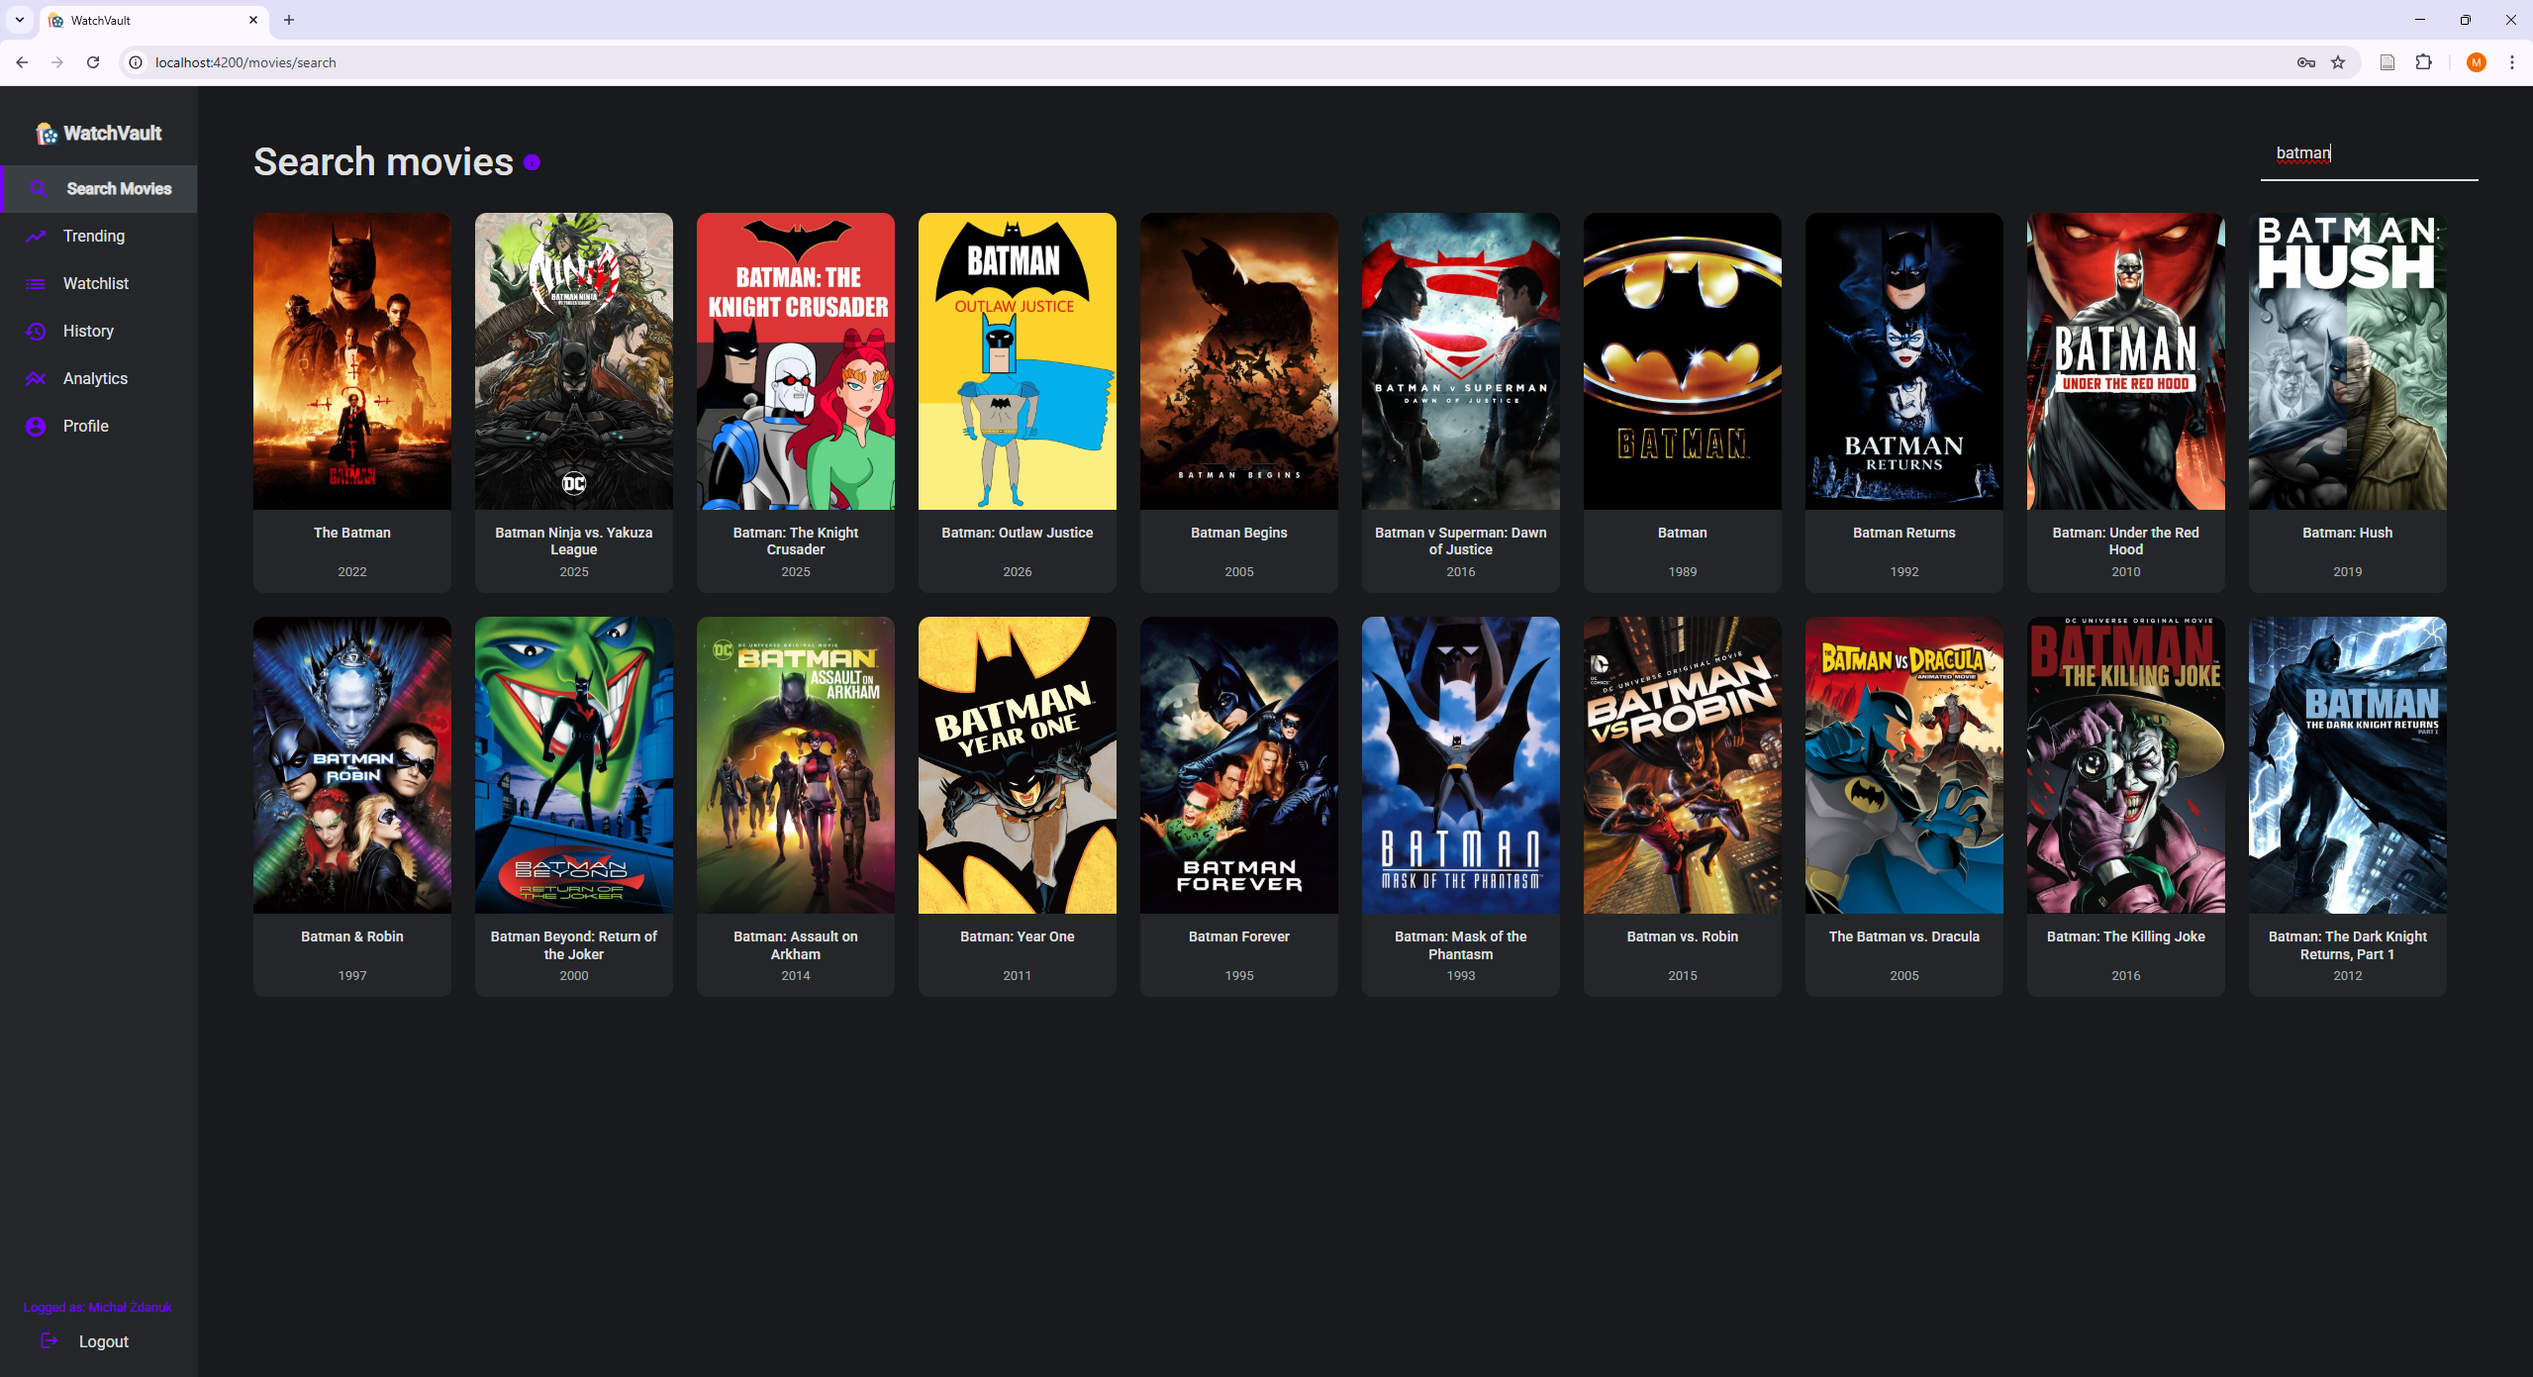
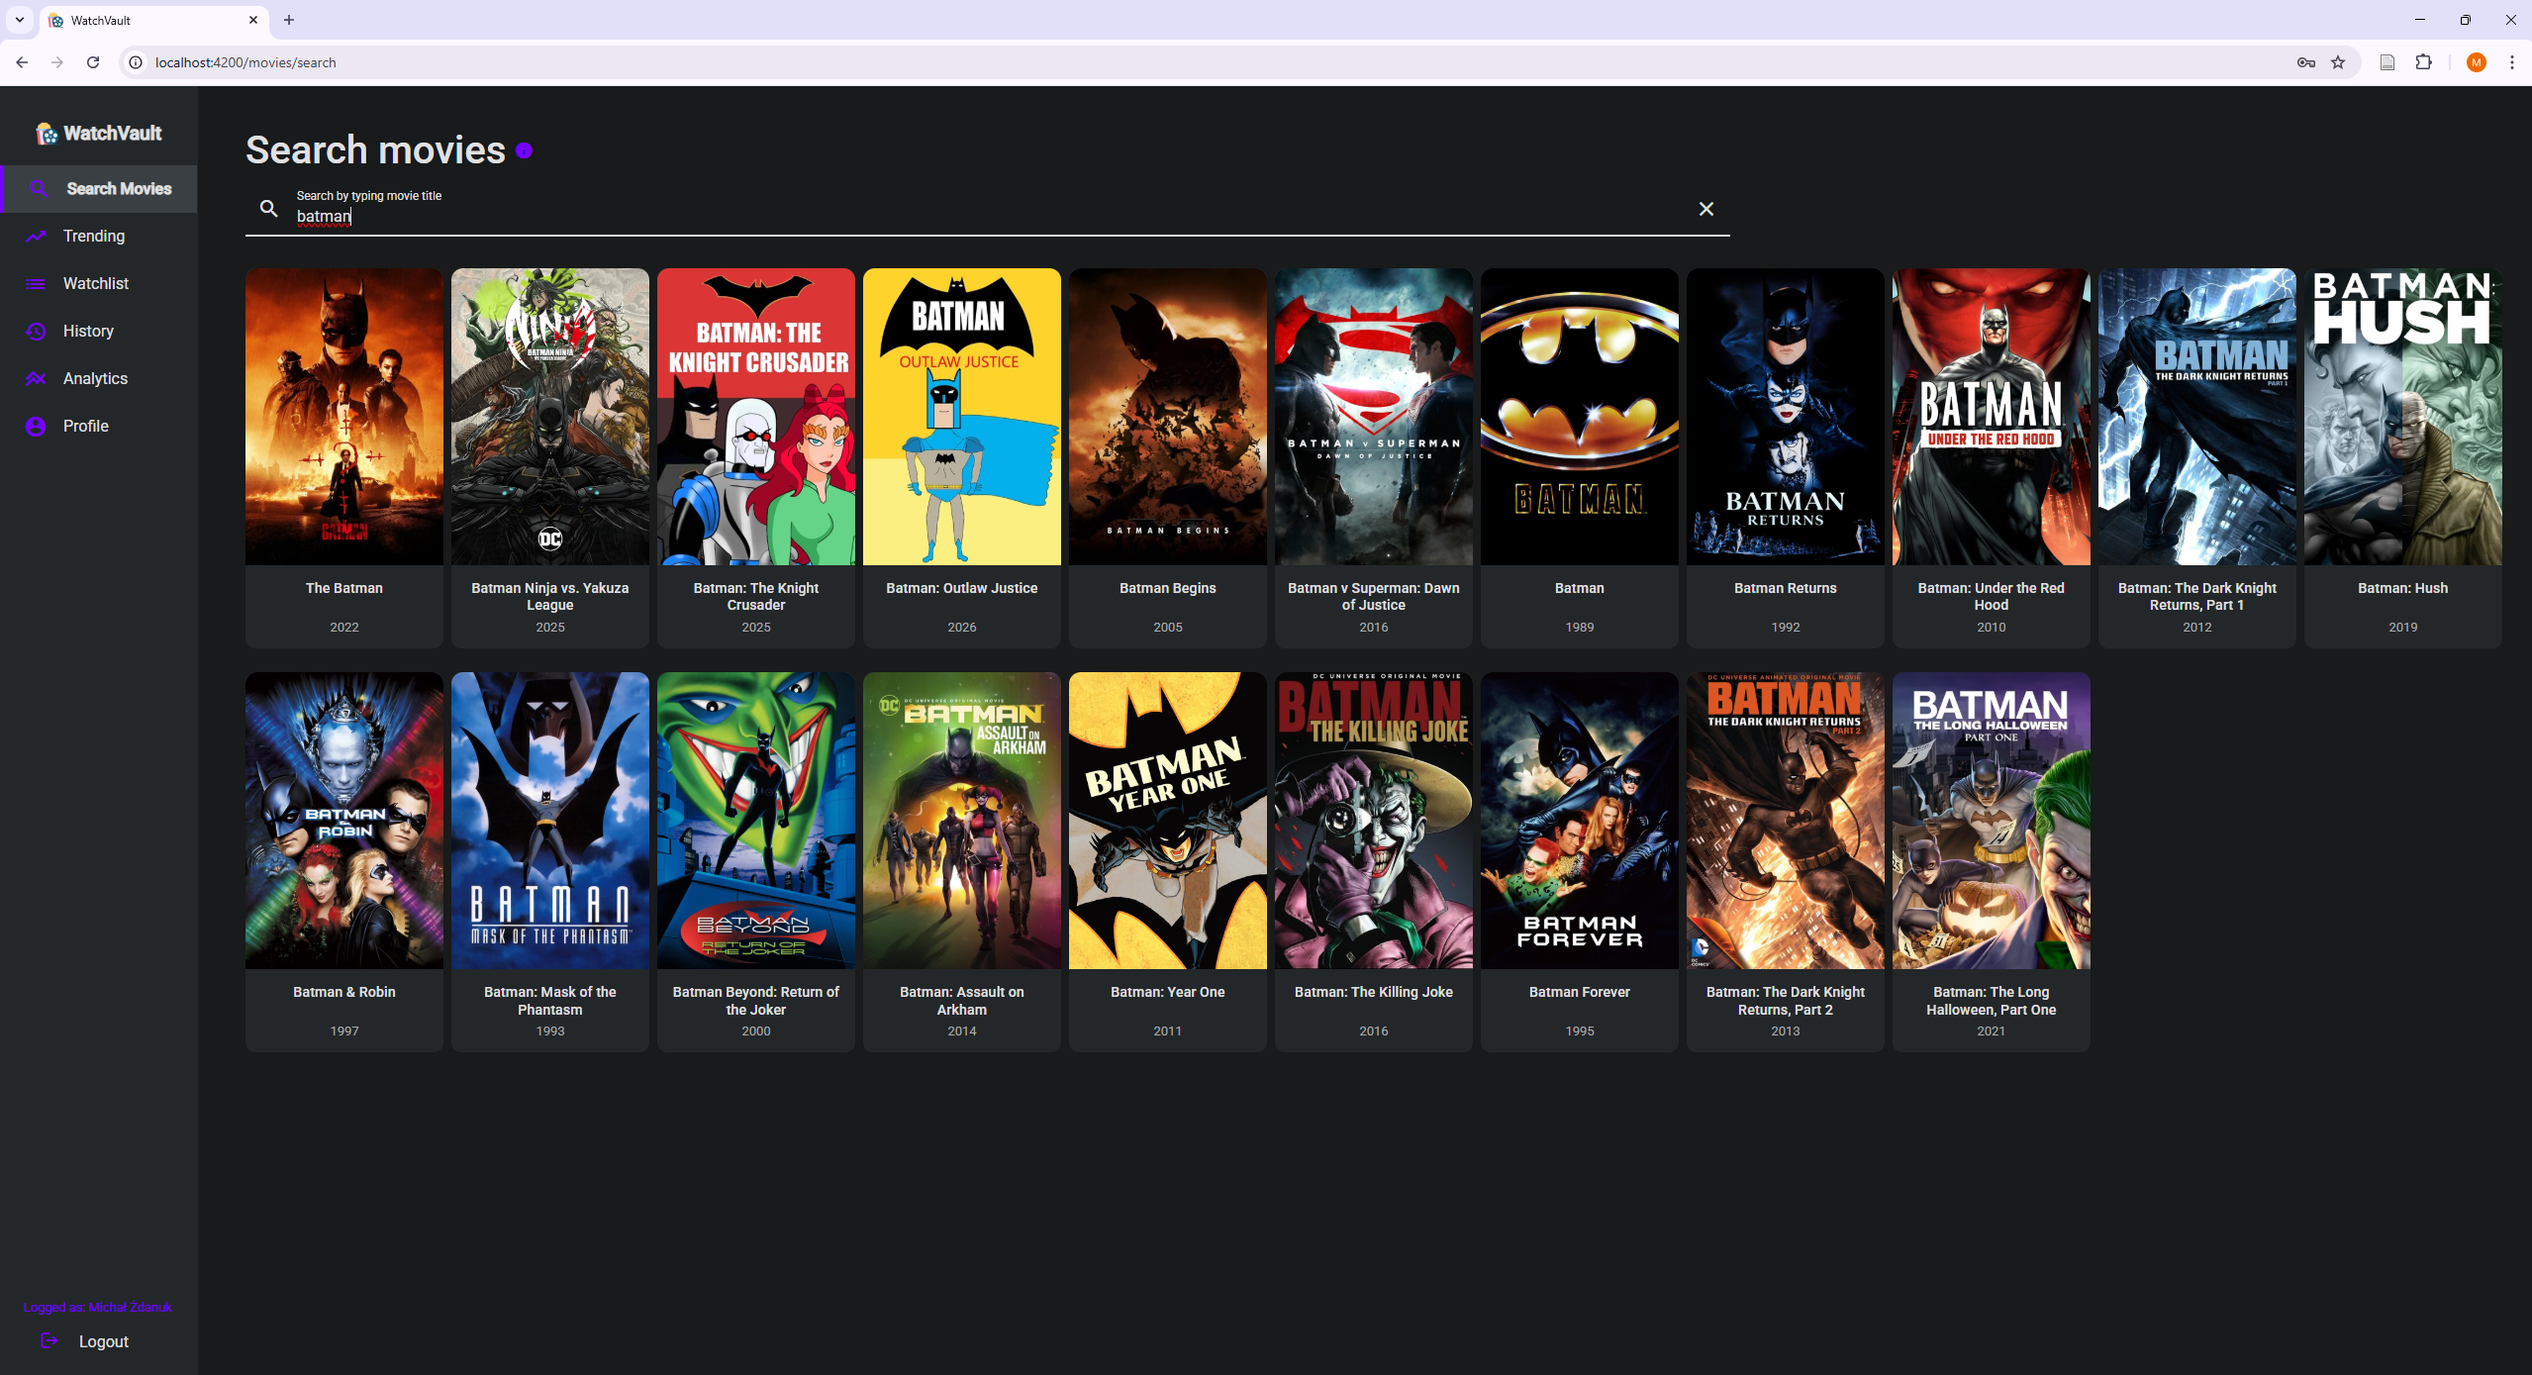
Redesign search movies page.

diff --git a/watchvault-fe/src/app/features/movies/pages/movie-search.component/movie-search.component.ts b/watchvault-fe/src/app/features/movies/pages/movie-search.component/movie-search.component.ts
@@ -1,25 +1,41 @@
 import { CommonModule } from '@angular/common';
 import { Component, ElementRef, ViewChild } from '@angular/core';
 import { MovieCard } from '../../movie-card/movie-card';
+import { PopularMovieCard } from '../../popular-movie-card/popular-movie-card';
 import { MovieService } from '../../../../core/services/movie.service';
 import { Movie } from '../../../../shared/models/movie';
 import { FlexModule } from '@angular/flex-layout';
 import { MatInputModule } from '@angular/material/input';
 import { MatFormFieldModule } from '@angular/material/form-field';
-import { fromEvent } from 'rxjs';
+import { InfoIcon } from '../../../../shared/components/info-icon/info-icon';
+import { TrendingMovie } from '../../../../shared/models/trending-movie';
+import { TrendingInterval } from '../../../../shared/models/trending-interval';
+import { LoadingSpinner } from '../../../../shared/components/loading-spinner/loading-spinner';
+import { fromEvent, of, Subscription } from 'rxjs';
 import {
   debounceTime,
   distinctUntilChanged,
   filter,
-  map,
   switchMap,
+  tap,
   catchError,
+  map,
 } from 'rxjs/operators';
-import { InfoIcon } from '../../../../shared/components/info-icon/info-icon';
+import { MatIconModule } from '@angular/material/icon';
 
 @Component({
   selector: 'app-movie-search.component',
-  imports: [CommonModule, FlexModule, MovieCard, InfoIcon, MatInputModule, MatFormFieldModule],
+  imports: [
+    CommonModule,
+    FlexModule,
+    MovieCard,
+    PopularMovieCard,
+    InfoIcon,
+    LoadingSpinner,
+    MatInputModule,
+    MatFormFieldModule,
+    MatIconModule,
+  ],
   templateUrl: './movie-search.component.html',
   styleUrl: './movie-search.component.css',
 })
@@ -27,31 +43,91 @@ export class MovieSearchComponent {
   @ViewChild('searchInput', { static: true }) searchInput!: ElementRef;
 
   movies: Movie[] = [];
+  popularMovies: TrendingMovie[] = [];
+  searchTerm: string = '';
   error: string | null = null;
+  isLoading = false;
   page: number = 1;
   pageSize: number = 20;
+
+  private subscription = new Subscription();
 
   constructor(private movieService: MovieService) {}
 
   ngOnInit(): void {
-    fromEvent<InputEvent>(this.searchInput.nativeElement, 'keyup')
+    this.loadPopularMovies();
+  }
+
+  ngAfterViewInit(): void {
+    this.setupSearchListener();
+  }
+
+  ngOnDestroy(): void {
+    this.subscription.unsubscribe();
+  }
+
+  private setupSearchListener(): void {
+    const sub = fromEvent<InputEvent>(this.searchInput.nativeElement, 'input')
       .pipe(
-        map((event) => (event.target as HTMLInputElement).value.trim().toLowerCase()),
-        filter((term) => term.length >= 3),
+        map((event) => (event.target as HTMLInputElement).value.trim()),
         debounceTime(400),
         distinctUntilChanged(),
-        switchMap((searchTerm) =>
-          this.movieService.getMovies(searchTerm, this.page, this.pageSize).pipe(
+        tap((value) => {
+          this.searchTerm = value;
+          this.error = null;
+          if (value.length < 3) {
+            this.movies = [];
+          }
+        }),
+        filter((value) => value.length >= 3),
+        tap(() => (this.isLoading = true)),
+
+        switchMap((value) =>
+          this.movieService.getMovies(value, this.page, this.pageSize).pipe(
             catchError((err) => {
-              this.error = '⚠ Failed to search movies. Please try again.';
-              console.error(err);
-              return [];
+              console.error('API error:', err);
+              this.error = `Could not find any results for "${this.searchTerm}".`;
+              return of([]);
             })
           )
-        )
+        ),
+        tap(() => (this.isLoading = false)),
+        catchError((err) => {
+          console.error('Stream crashed:', err);
+          this.isLoading = false;
+          this.error = 'Unexpected error. Please try again.';
+          return of([]);
+        })
       )
       .subscribe((movies) => {
         this.movies = movies;
+        if (!movies.length && this.searchTerm.length >= 3) {
+          this.error = `Could not find any results for "${this.searchTerm}".`;
+        }
       });
+
+    this.subscription.add(sub);
+  }
+
+  private loadPopularMovies(): void {
+    this.movieService.getTrendingMovies(TrendingInterval.Today).subscribe({
+      next: (movies) => {
+        this.popularMovies = movies;
+      },
+      error: (err) => {
+        this.error = '⚠ Failed to load popular movies. Please try again.';
+        console.error(err);
+      },
+    });
+  }
+
+  clearSearch(): void {
+    this.searchTerm = '';
+    this.movies = [];
+    this.error = null;
+
+    if (this.searchInput) {
+      this.searchInput.nativeElement.value = '';
+    }
   }
 }

diff --git a/watchvault-fe/src/app/features/movies/pages/movie-search.component/movie-search.component.html b/watchvault-fe/src/app/features/movies/pages/movie-search.component/movie-search.component.html
@@ -1,19 +1,37 @@
 <div class="movies-search-container">
-  <div class="d-flex align-items-center justify-content-between mb-2">
+  <div>
     <h1 class="d-flex align-items-center gap-2">
       Search movies
       <app-info-icon tooltipText="Search movies by title"></app-info-icon>
     </h1>
+
     <mat-form-field class="search-field">
-      <input #searchInput matInput placeholder="Type at least 3 characters" />
+      <mat-icon matPrefix>search</mat-icon>
+      <mat-label>Search by typing movie title</mat-label>
+      <input matInput #searchInput type="text" placeholder="Type at least 3 characters..." />
+      <mat-icon matSuffix *ngIf="searchTerm" (click)="clearSearch()" class="close-icon"
+        >close</mat-icon
+      >
     </mat-form-field>
   </div>
 
-  <div fxLayout="row wrap" fxLayoutGap="24px grid">
-    <app-movie-card *ngFor="let movie of movies" [movie]="movie"></app-movie-card>
+  <app-loading-spinner *ngIf="isLoading"></app-loading-spinner>
+
+  <div *ngIf="!searchTerm; else searchResults" class="popular-section">
+    <h4>Popular Movies</h4>
+    <div class="movie-grid">
+      <app-popular-movie-card
+        *ngFor="let movie of popularMovies"
+        [movie]="movie"
+      ></app-popular-movie-card>
+    </div>
   </div>
 
-  <div *ngIf="!movies.length && !error" class="empty-state">
-    <p>🎬 Start typing to search for movies</p>
-  </div>
+  <ng-template #searchResults>
+    <div *ngIf="error" class="error-message">{{ error }}</div>
+
+    <div *ngIf="movies.length > 0" class="movie-grid">
+      <app-movie-card *ngFor="let movie of movies" [movie]="movie"></app-movie-card>
+    </div>
+  </ng-template>
 </div>

diff --git a/watchvault-fe/src/app/features/movies/popular-movie-card/popular-movie-card.css b/watchvault-fe/src/app/features/movies/popular-movie-card/popular-movie-card.css
@@ -1,0 +1,49 @@
+.popular-movie-card {
+  min-width: 200px;
+  max-width: 200px;
+  background-color: var(--color-bg-navbar);
+  color: var(--color-text-main);
+  border-radius: 10px;
+  cursor: pointer;
+  transition: transform 0.2s, box-shadow 0.2s;
+  flex-shrink: 0;
+}
+
+.popular-movie-card img {
+  width: 100%;
+  height: 300px;
+  object-fit: cover;
+  border-top-left-radius: 12px;
+  border-top-right-radius: 12px;
+}
+
+.popular-movie-card mat-card-content {
+  padding: 0.75rem;
+  text-align: center;
+}
+
+.popular-movie-card:hover {
+  transform: translateY(-3px);
+  box-shadow: 0 6px 12px rgba(119, 0, 255, 0.5);
+}
+
+.popular-movie-card .movie-title {
+  font-size: 0.9rem;
+  font-weight: 500;
+  margin: 0.2rem 0;
+
+  display: -webkit-box;
+  -webkit-line-clamp: 2;
+  -webkit-box-orient: vertical;
+  overflow: hidden;
+  text-overflow: ellipsis;
+  word-break: break-word;
+
+  min-height: 2.4em;
+  line-height: 1.2em;
+}
+
+.popular-movie-card .movie-meta {
+  font-size: 0.8rem;
+  color: #aaa;
+}

diff --git a/watchvault-fe/src/app/features/movies/pages/movie-search.component/movie-search.component.css b/watchvault-fe/src/app/features/movies/pages/movie-search.component/movie-search.component.css
@@ -1,20 +1,30 @@
 .movies-search-container {
-  padding: 1.5rem 2.5rem;
+  padding: 1.5rem 2rem;
 }
 
 .search-field {
-  max-width: 250px;
-  max-width: 220px;
-  flex: 1;
+  width: 100%;
+  max-width: 1500px;
 }
 
-.empty-state {
-  display: flex;
-  justify-content: center;
-  align-items: center;
-  height: 250px;
-  width: 100%;
+.movie-grid {
+  display: grid;
+  grid-template-columns: repeat(auto-fill, minmax(180px, 1fr));
+  gap: 1.5rem;
+  margin-top: 0.5rem;
+}
+
+.error-message {
+  color: #d9534f;
+  margin-top: 1rem;
+  font-weight: 500;
   text-align: center;
-  margin-top: 2rem;
-  font-size: 2rem;
+}
+
+.popular-section h2 {
+  margin-top: 1rem;
+}
+
+.close-icon:hover {
+  cursor: pointer;
 }

diff --git a/watchvault-fe/src/app/features/movies/popular-movie-card/popular-movie-card.spec.ts b/watchvault-fe/src/app/features/movies/popular-movie-card/popular-movie-card.spec.ts
@@ -1,0 +1,23 @@
+import { ComponentFixture, TestBed } from '@angular/core/testing';
+
+import { PopularMovieCard } from './popular-movie-card';
+
+describe('PopularMovieCard', () => {
+  let component: PopularMovieCard;
+  let fixture: ComponentFixture<PopularMovieCard>;
+
+  beforeEach(async () => {
+    await TestBed.configureTestingModule({
+      imports: [PopularMovieCard]
+    })
+    .compileComponents();
+
+    fixture = TestBed.createComponent(PopularMovieCard);
+    component = fixture.componentInstance;
+    fixture.detectChanges();
+  });
+
+  it('should create', () => {
+    expect(component).toBeTruthy();
+  });
+});

diff --git a/watchvault-fe/src/app/features/movies/popular-movie-card/popular-movie-card.ts b/watchvault-fe/src/app/features/movies/popular-movie-card/popular-movie-card.ts
@@ -1,0 +1,15 @@
+import { Component, Input } from '@angular/core';
+import { TrendingMovie } from '../../../shared/models/trending-movie';
+import { CommonModule } from '@angular/common';
+import { RouterLink } from '@angular/router';
+import { MatCardModule } from '@angular/material/card';
+
+@Component({
+  selector: 'app-popular-movie-card',
+  imports: [CommonModule, MatCardModule, RouterLink],
+  templateUrl: './popular-movie-card.html',
+  styleUrl: './popular-movie-card.css',
+})
+export class PopularMovieCard {
+  @Input() movie!: TrendingMovie;
+}

diff --git a/watchvault-fe/src/app/features/movies/popular-movie-card/popular-movie-card.html b/watchvault-fe/src/app/features/movies/popular-movie-card/popular-movie-card.html
@@ -1,0 +1,14 @@
+<mat-card class="popular-movie-card" [routerLink]="['/movies', movie.simklId]">
+  <img
+    mat-card-image
+    [src]="movie.posterUrl ? movie.posterUrl : 'assets/movies/moviePosterUnavailable.png'"
+    [alt]="movie.title"
+  />
+  <mat-card-content>
+    <p class="movie-title">{{ movie.title }}</p>
+    <p class="movie-meta">
+      {{ movie.releaseDate | date : 'yyyy' }} •
+      <span *ngIf="movie.imdbRating">⭐ {{ movie.imdbRating }}/10</span>
+    </p>
+  </mat-card-content>
+</mat-card>

diff --git a/watchvault-fe/src/environments/environment.ts b/watchvault-fe/src/environments/environment.ts
@@ -1,3 +1,3 @@
 export const environment = {
-  apiUrl: 'https://localhost:5050/api',
+  apiUrl: 'https://localhost:6060/api',
 };

diff --git a/README.md b/README.md
@@ -43,17 +43,11 @@ All screenshots can also be found in the [`/SystemDemonstration`](./SystemDemons
 ### 🏠 Landing Page  
 ![Landing Page](https://github.com/user-attachments/assets/2d8077a0-adcd-4beb-b488-efbcb86378f9)
 
-### 🧾 Register Page  
-![Register Page](https://github.com/user-attachments/assets/5c521df7-f9b9-4622-b010-d55c431b2c90)
-
-### 🔐 Login Page  
-![Login Page](https://github.com/user-attachments/assets/264fe856-af5b-42f3-b829-883262f193a9)
-
 ### 🔥 Trending Movies  
 ![Trending Movies](https://github.com/user-attachments/assets/5ea9e95f-0a56-473b-8242-ccd41b3e95c5)
 
 ### 🔍 Search Movies  
-![Search Movies](https://github.com/user-attachments/assets/c2a51d3b-2bca-4393-aff1-5f56986aabae)
+![Search Movies](https://github.com/user-attachments/assets/5e76864a-a083-4dd4-a392-e3592908628d)
 
 ### 🎬 Movie Details  
 ![Movie Details](https://github.com/user-attachments/assets/49a43a97-edc0-4d2f-a31e-8480ebc1eacd)
@@ -65,7 +59,7 @@ All screenshots can also be found in the [`/SystemDemonstration`](./SystemDemons
 ![Profile Page](https://github.com/user-attachments/assets/5856dd5c-6ce1-4b4e-9b98-5795f74d900c)
 
 ### 🕒 Watch History
-![Watch History Page](https://github.com/user-attachments/assets/6cae5ebb-50ec-4fc0-8884-dd9064b6254d)
+![Watch History Page](https://github.com/user-attachments/assets/30968798-e552-4735-939e-1390389df33e)
 
 ### 📊 Watchlist Analysis
 
@@ -74,6 +68,12 @@ All screenshots can also be found in the [`/SystemDemonstration`](./SystemDemons
 ![Watchlist analysis - bar chart (runtime minutes)](https://github.com/user-attachments/assets/5ad8b608-3d02-4a5a-bbd0-95c857ad26bb)
 
 ![Watchlist analysis - line chart (runtime minutes)](https://github.com/user-attachments/assets/f31853cf-0b67-40a7-a13d-c9789b9a962a)
+
+### 🧾 Register Page  
+![Register Page](https://github.com/user-attachments/assets/5c521df7-f9b9-4622-b010-d55c431b2c90)
+
+### 🔐 Login Page  
+![Login Page](https://github.com/user-attachments/assets/264fe856-af5b-42f3-b829-883262f193a9)
 
 ---
 
